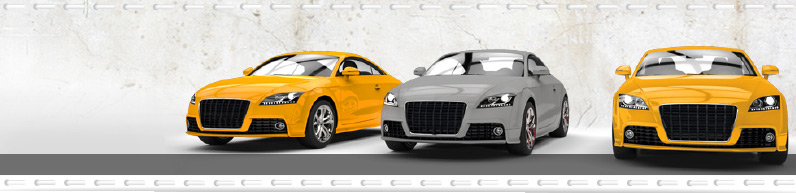
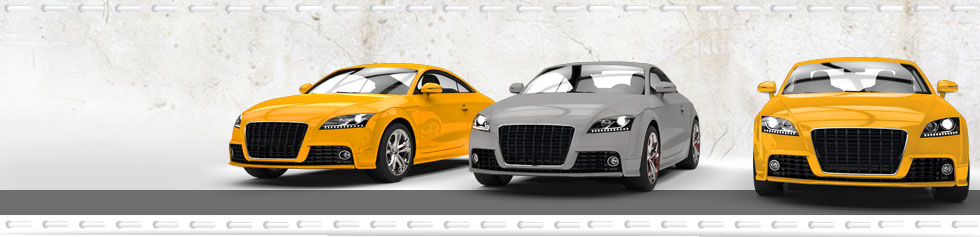
Poszerzenie template

diff --git a/moodle/theme/dosk/style/dosk_style.css b/moodle/theme/dosk/style/dosk_style.css
@@ -101,8 +101,8 @@ body {
 }
 
 .pagelayout-report #page-content {
-	/* width: 978px; */
-	width: 796px;
+	width: 978px; 
+	/*width: 796px; */
 	margin: 10px auto;
 	
 }
@@ -302,10 +302,41 @@ div.loginform .menu-logowania a.logowanie.selected {
 
 
 #page-content {
-	min-width: 796px;
-	width: 796px;
+	min-width: 980px;
+	width: 980px;
 }
 
 div#region-main .region-content {
 	padding: 0px 10px;
+}
+
+
+/* BASE*/
+
+#page {
+	width: 980px; 
+	margin: 0 auto;
+}
+ 
+#page #page-header {
+	width: 980px;
+	margin: 0 auto;
+	background: transparent url([[pix:theme|header]]) no-repeat top;
+	height: 237px;
+	position: relative;
+	margin-top: 20px;
+	
+} 
+
+#page #page-header .headermain {
+	position: absolute;
+	left: 0px;
+	top: 20px;
+}
+
+#page #page-header .headermenu {
+	position: absolute; 
+ 	top: 89px;
+	right: 10px;
+	
 }

diff --git a/moodle/theme/dosk/style/core.css b/moodle/theme/dosk/style/core.css
@@ -286,34 +286,7 @@ table#tag-management-list {margin: 10px auto;width: 80%;}
 /**
  * Overriding base
  */
-#page {
-	/*width: 980px; */
-	width: 796px;
-	margin: 0 auto;
-}
- 
-#page #page-header {
-	width: 796px;
-	margin: 0 auto;
-	background: transparent url([[pix:theme|header]]) no-repeat top;
-	height: 193px;
-	position: relative;
-	margin-top: 20px;
-	
-} 
 
-#page #page-header .headermain {
-	position: absolute;
-	left: 0px;
-	top: 2px;
-}
-
-#page #page-header .headermenu {
-	position: absolute; 
- 	top: 89px;
-	right: 10px;
-	
-}
 
 #page #page-header .headermenu,
 #page #page-header .headermenu a,

diff --git a/moodle/theme/dosk/config.php b/moodle/theme/dosk/config.php
@@ -121,7 +121,12 @@ $THEME->layouts = array(
         'regions' => array(),
         'options' => array('nofooter'=>true, 'nocoursefooter'=>true),
     ),
-    // Embeded pages, like iframe/object embeded in moodleform - it needs as much space as possible
+    'scorm' => array(
+        'file' => 'scorm.php',
+        'regions' => array(),
+        'options' => array('nofooter'=>true, 'nonavbar'=>true, 'nocustommenu'=>true, 'nocourseheaderfooter'=>true),
+    ),
+	 // Embeded pages, like iframe/object embeded in moodleform - it needs as much space as possible
     'embedded' => array(
         'file' => 'embedded.php',
         'regions' => array(),

diff --git a/moodle/theme/dosk/layout/frontpage.php b/moodle/theme/dosk/layout/frontpage.php
@@ -28,16 +28,16 @@ if($hassidetop1){
 }
 
 switch ($top_blocks){
-/*
+
 case 1: $top_width = "980px"; break;
 case 2: $top_width = "480px"; break;
 case 3: $top_width = "320px"; break;
 case 4: $top_width = "238px"; break; 
-*/
+/*
 case 1: $top_width = "796px"; break;
 case 2: $top_width = "390px"; break;
 case 3: $top_width = "259px"; break;
-case 4: $top_width = "195px"; break; 
+case 4: $top_width = "195px"; break;  */
 default: break;}
 
 $bot_blocks = 0;
